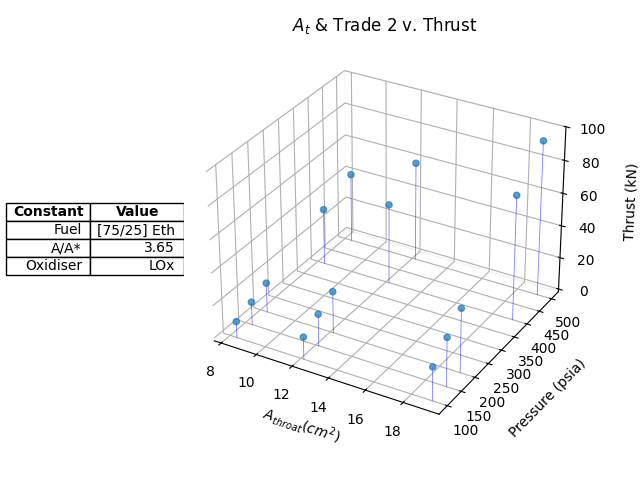
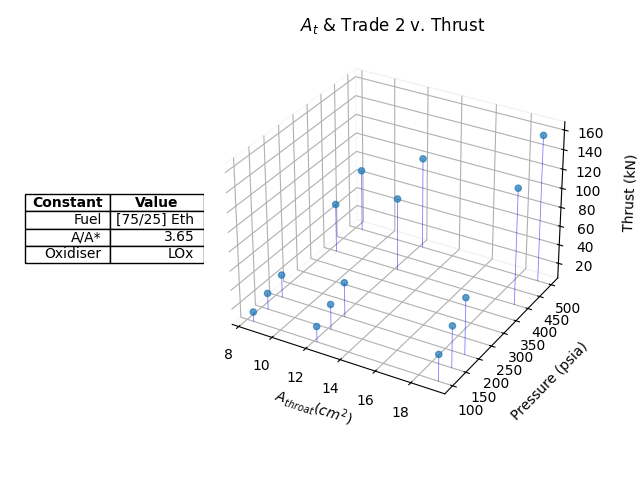
some last mistakes to fix

diff --git a/thrust.py b/thrust.py
@@ -129,8 +129,11 @@ def parse_txt(file: str) -> list[list[float]]:
                 # preserve cstar and Cf at exit [37, 44]
                 in_perf = reserve in [CAPTURE - DISP["Cf"], CAPTURE - DISP["cstar"]]
 
+                # two P and T values are found at chamber
+                is_stagnant = reserve in [CAPTURE - DISP["P"], CAPTURE - DISP["T"]]
+
                 # all other values found at throat [26, 35]
-                r = [48, 57] if is_r else [37, 44] if in_perf else [26,35]
+                r = [48, 57] if is_r else [37, 44] if in_perf else [18,26] if is_stagnant else [26,35]
 
                 # with bounds defined, append all
                 if reserve in list(CAPTURE - x for x in DISP.values()):

diff --git a/README.md b/README.md
@@ -56,10 +56,11 @@ This file specifically calls the CEA_Obj to iterate through an array of fuel typ
 GENERAL NOTE: I chose to show all 3 in bar graphs despite the potentially better representation as a line chart for especially chamber pressure and O/F ratios (due to the uncaught "jumps" in variables,) but please at least endure this section, because the [graphs get better](#bonus-2-graphing-with-two-ivs).
 
 IVs: [75/25, 95/5, 50/50 Ethanol, Methane,  Kerosene]
+Constants: [Chamber: 300psia, O/F: 1.4, Eps: 3.65, Oxidiser: LOX]
 
 ![](figures/Figure_1.png "Fuel v. Performance Graph")
 
-In a discussion with another prospective member, we noticed that especially for fuels like Ethanol mixtures (self-defined in code using rocketcea frameworks,) both Ivac and Isp would return significantly different values to their cearun web app counterparts. For example 75/25 Ethanol would return $I_{vac}~2670 ms^{-1}$ on our self-run scripts and $~3000 ms^{-1}$ on the cearun web app. For kerosene (RP-1,) however, this difference would be more like $2496-2490$, which could totally be attributed to conversion errors or small differences in computation. This brings up the question: which would be more reliable? Is consistency, then, that we only stick to one system, the way to get around this evident inaccuracy?
+In a discussion with another prospective member, we noticed that especially for fuels like Ethanol mixtures (self-defined in code using rocketcea frameworks,) both Ivac and Isp would return significantly different values (given that flow is NOT frozen at the throat nor anywhere else) to their cearun web app counterparts. For example 75/25 Ethanol would return $I_{vac}~2670 ms^{-1}$ on our self-run scripts and $~3000 ms^{-1}$ on the cearun web app. For kerosene (RP-1,) however, this difference would be more like $2496-2490$, which could totally be attributed to conversion errors or small differences in computation. This brings up the question: which would be more reliable? Is consistency, then, that we only stick to one system, the way to get around this evident inaccuracy? 
 
 ### Discussion
 
@@ -78,6 +79,7 @@ Directly using the web app to run through the different independent variables, I
 ### Results
 
 IVs: [500, 400, 200, 150, 100] psia
+Constants: [Fuel: 75/25 Ethanol, O/F: 1.4, Eps: 3.65, Oxidiser: LOX]
 
 File produced (and parsed): cea > pvP.txt
 
@@ -102,6 +104,7 @@ Once again, I directly use the web app and the same parse.py system.
 ### Results
 
 IVs: [1.1, 1.2, 1.3, 1.5, 1.6, 1.7]
+Constants: [Chamber: 300psia, Fuel: 75/25 Ethanol, Eps: 3.65, Oxidiser: LOX]
 
 File produced (and parsed): cea > rvP.txt
 
@@ -128,7 +131,7 @@ $$
 Notice mass flow rate for ideal compressible flows as given by the [GRC paper](https://www1.grc.nasa.gov/beginners-guide-to-aeronautics/mass-flow-rate-equations/) is:
 
 $$
- \dot{m} = \frac{Ap_t}{\sqrt{T_t}} \sqrt{\frac{\gamma}{R}} \, M (1+\frac{\gamma-1}{2}M^2)^{-\frac{\gamma+1}{2(\gamma-1)}}
+ \dot{m} = \frac{Ap_0}{\sqrt{T_0}} \sqrt{\frac{\gamma}{R}} \, M (1+\frac{\gamma-1}{2}M^2)^{-\frac{\gamma+1}{2(\gamma-1)}}
 $$
 
 I'd like to break this apart into more digestible chunks, and link all these convoluted terms to corresponding ones on the CEA output file (our program specifically looks for displacement from each `COMPOSITION DURING EXPANSION FROM INFINITE AREA COMBUSTOR` marker).
@@ -138,8 +141,8 @@ The GRC paper gives us the following definitions of the variables, which lets us
 | Variable | Definition         |
 |:--------:| ------------------ |
 | $A$      | Throat Area        |
-| $p_t$    | Total Pressure     |
-| $T_t$    | Total Temp         |
+| $p_0$    | Stagnation Pressure     |
+| $T_0$    | Stagnation Temp         |
 | $M$      | Mach No.           |
 | $R$      | Gas Constant       |
 | $\gamma$ | Specific Heat Ratio|
@@ -148,8 +151,8 @@ I'll link a more specific writeup of how I pulled apart the GRC paper [here](#bo
 
 | Variable | Definition         | CEA Symbol    |
 |:--------:| ------------------ |:-------------:|
-| $p_t$    | Total Pressure     | P             |
-| $T_t$    | Total Temp         | T             |
+| $p_0$    | Chamber Pressure     | P             |
+| $T_0$    | Chamber Temp         | T             |
 | $M$      | Mach No.           | MACH HUMBER = 1|
 | $R$      | Gas Constant       | R             |
 | $\gamma$ | Specific Heat Ratio| GAMMAs        |
@@ -157,7 +160,7 @@ I'll link a more specific writeup of how I pulled apart the GRC paper [here](#bo
 Using this to simplify the expression before we put in python code, where the subscript $_t$ denotes throat:
 
 $$
- \dot{m}_{t} = \frac{Ap_t}{\sqrt{T_t}} \sqrt{\frac{\gamma}{R}} \, (1+\frac{\gamma-1}{2})^{-\frac{\gamma+1}{2(\gamma-1)}}
+ \dot{m}_{t} = \frac{Ap_0}{\sqrt{T_0}} \sqrt{\frac{\gamma}{R}} \, (1+\frac{\gamma-1}{2})^{-\frac{\gamma+1}{2(\gamma-1)}}
 $$
 
 I consistently mention in my longer [pullapart](#bonus-1-grc-pullapart) this idea of 'displacements' from the marker `COMPOSITION DURING EXPANSION FROM INFINITE AREA COMBUSTOR`. thrust.py wraps the function in parse.py to modify the read function for the values we need on the .txt files, where the displacements are as follows:
@@ -213,13 +216,13 @@ And Trade 2 (Pressure):
 
 ![](figures/Figure_4.png)
 
-A quick analysis reveals that the thrust peaks at a pressure of 500 psia and a throat area of ~$19cm^2$ at a value of ~$93.3 kN$
+A quick analysis reveals that the thrust peaks at a pressure of 500 psia and a throat area of ~$19cm^2$ at a value of ~$157.3 kN$
 
 And Trade 3 (O/F ratio):
 
 ![](figures/Figure_5.png)
 
-Thrust in this case peaks at the largest throat area of $19.096cm^2$ yet again, and with the largest O/F ratio of 1.7, however this time only reaching $58.8 kN$
+Thrust in this case peaks at the largest throat area of $19.096cm^2$ yet again, and with the largest O/F ratio of 1.7, however this time only reaching $99.1 kN$
 
 Note: these graphs use the self-developed multivariate plotter planned in bonus 2 and implemented in multivar.py
 
@@ -300,7 +303,7 @@ For a strictly 3 IV relation, the most intelligible assignment for any categoric
 
 For 2 IVs, a simple scatter plot is enough.
 
-### The PoC (3IV)
+### The Proof of Concept (3IV)
 ![](figures/Figure_7.png)
 
 This is an example of a 3 IV - 1 DV graph. In its current state, it's quite difficult to look at. 
@@ -316,7 +319,7 @@ And maximising for thrust, we get a graph that is most certainly suspicious.
 
 ![](figures/Figure_9.png)
 
-If we ignore the mismatches, which might have to do with conversion, division, or just general parameter errors (frankly just lazy coding at this point), this form of visualisation gives us a very nice full picture. Given extensions like [Z-value filtering](#extension-squared-z-value-filtering), or general QoL/visualisation implementations, I argue that this is actually a decent visualisation.
+If we ignore the mismatches, which might have to do with conversion, division, or just general parameter order errors, this form of visualisation gives us a very nice view of the data. Given extensions like [Z-value filtering](#extension-squared-z-value-filtering), or general QoL/visualisation implementations, I argue that this is actually a decent visualisation.
 
 ### Drawbacks of this Visualisation
 
@@ -341,23 +344,23 @@ You'll also notice I have a whole ton of TODOs riddled around my code that sugge
 | Variable | Definition         |
 |:--------:| ------------------ |
 | $A$      | Area               | 
-| $p_t$    | Total Pressure     |
-| $T_t$    | Total Temp         |
+| $p_0$    | Total (Stagnation) Pressure     |
+| $T_0$    | Total (Stagnation) Temp         |
 | $M$      | Mach No.           |
 | $R$      | Gas Constant       |
 | $\gamma$ | Specific Heat Ratio|
 
 I'll start with the cancellable stuff first, assuming that all data for our specific thrust use case must come from the **throat**, as this is where, according to GRC, $\dot{m}$ is at a maximum
 
-$M$ corresponds with symbol MACH NUMBER, -2 lines displaced from our parser breakpoint `COMPOSITION DURING EXPANSION FROM INFINITE AREA COMBUSTOR`. However, as stated by the GRC paper, and corroborated on the CEA ouput, this is a constant $M=1$ at the throat. 
+$M$ corresponds with symbol MACH NUMBER, -2 lines displaced from our parser breakpoint `PERFORMANCE PARAMETERS`. However, as stated by the GRC paper, and corroborated on the CEA ouput, this is a constant $M=1$ at the throat. 
 
 $A$ is total throat Area, which we are given on the deliverable sheet to be a range from $[1.3, 1.886, 2.96]in^2$, which I'll be converting to metric (preserving as many s.f.s as possible) as $[0.03302, 0.0479044, 0.075184]m^2$ 
 
-$R$ is the gas constant of the products coming out of the nozzle, provided in a not-so-convenient location at the top, behind %FUEL. I may have a more complex string parse function to search and handle this value in particular
+$R$ is the gas constant of the products coming out of the nozzle, provided in a not-so-convenient location at the top, behind %FUEL. I will have to verify that this stays at a consistent column range in the text file
 
 $\gamma$ corresponds to GAMMAs (throat), -4 displacement from breakpoint.
 
-$p_t$ and $T_t$ are represented by P and T respectively, -16 and -15 respectively. Conveniently, CEA has this put in terms of metric units for us already.
+$p_0$ and $T_0$ are represented by P and T at the chamber respectively (with the assumption from [slide 32](https://docs.google.com/presentation/d/1ZaxBvgIuoSKys6WXRcbw0M6DKwqAs0aF/edit?slide=id.p32#slide=id.p32) that chamber conditions are stagnant), -16 and -15 respectively. Conveniently, CEA has this put in terms of metric units for us already.
 
 Our final pullapart sheet looks like:
 
@@ -369,19 +372,21 @@ Our final pullapart sheet looks like:
 | $R$      | Gas Constant       | R             |
 | $\gamma$ | Specific Heat Ratio| GAMMAs        |
 
+It's also important to note that the negative displacement values are not helpful in telling the code how to iterate through the necessary values, and so I will instead be using the breakpoint nearer to the top: `COMPOSITION DURING EXPANSION FROM INFINITE AREA COMBUSTOR`, so as to maintain that the iteration script can follow the same positive CAPTURE logic without wasting lines for reading.
+
 ### Graph Type Selector From Abstracted Rules (MISTAKE, but lowk idk I like what I did)
 
 Establish:
 
 In IVs
 * 4 of any means **scatter plot** (continuity ignored)
-* 3 discrete means **scatter plot** prioritising **shape** over colour
+* 3 categorical means **scatter plot** prioritising **shape** over colour
 * 3 continuous means **heat map 3D curve**
-* 2 continuous 1 discrete (xyc $\rightarrow$ ccd, cdc, dcc)
+* 2 continuous 1 categorical (d) (xyc $\rightarrow$ ccd, cdc, dcc)
     * ccd $\rightarrow$ can still stay **heat map 3D curve**
     * cdc, dcc $\rightarrow$ has **colour gradient**, but **stacked line** graph
-* 1 continous 2 discrete (xyc $\rightarrow$ cdd, ddc, dcd)
+* 1 continous 2 categorical (xyc $\rightarrow$ cdd, ddc, dcd)
     * cdd, dcd $\rightarrow$ has **colour gradient**, but on **stacked line** graph
     * ddc $\rightarrow$ is a **scatter** with **colour gradient**
 * 2 continuous means **3D curve**
-* 1 continuous 1 discrete means **stacked line** graph
+* 1 continuous 1 categorical means **stacked line** graph
